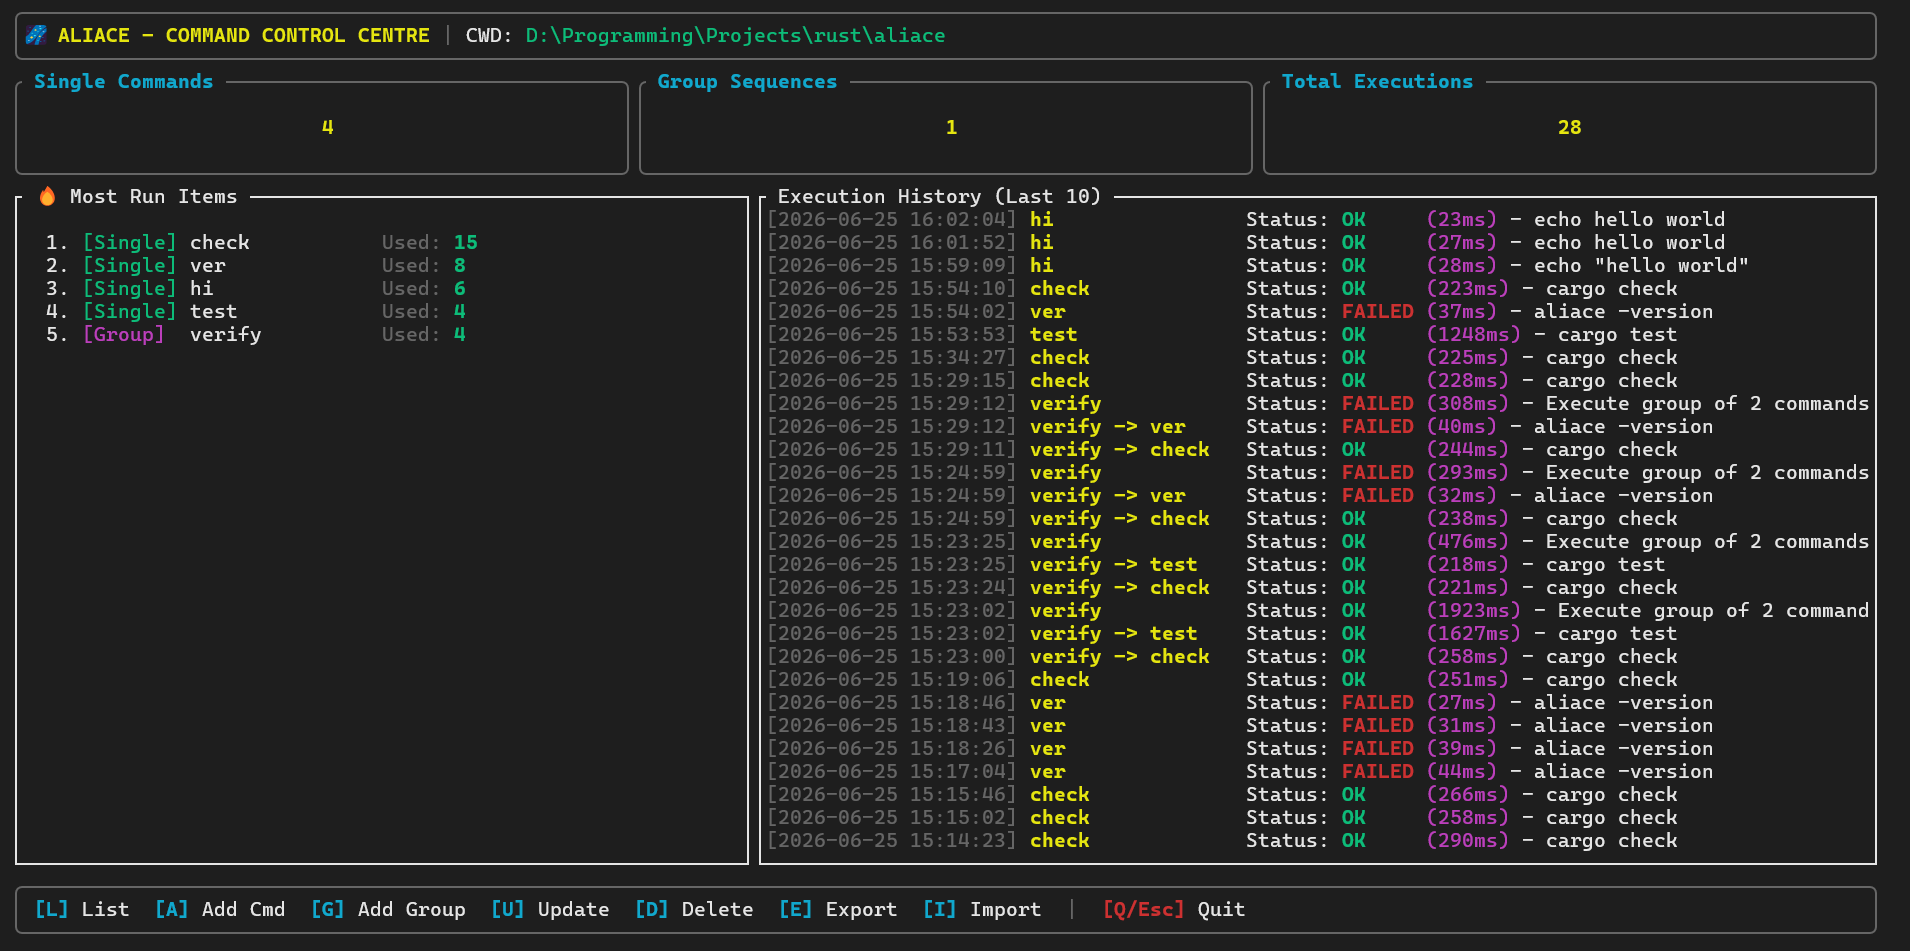
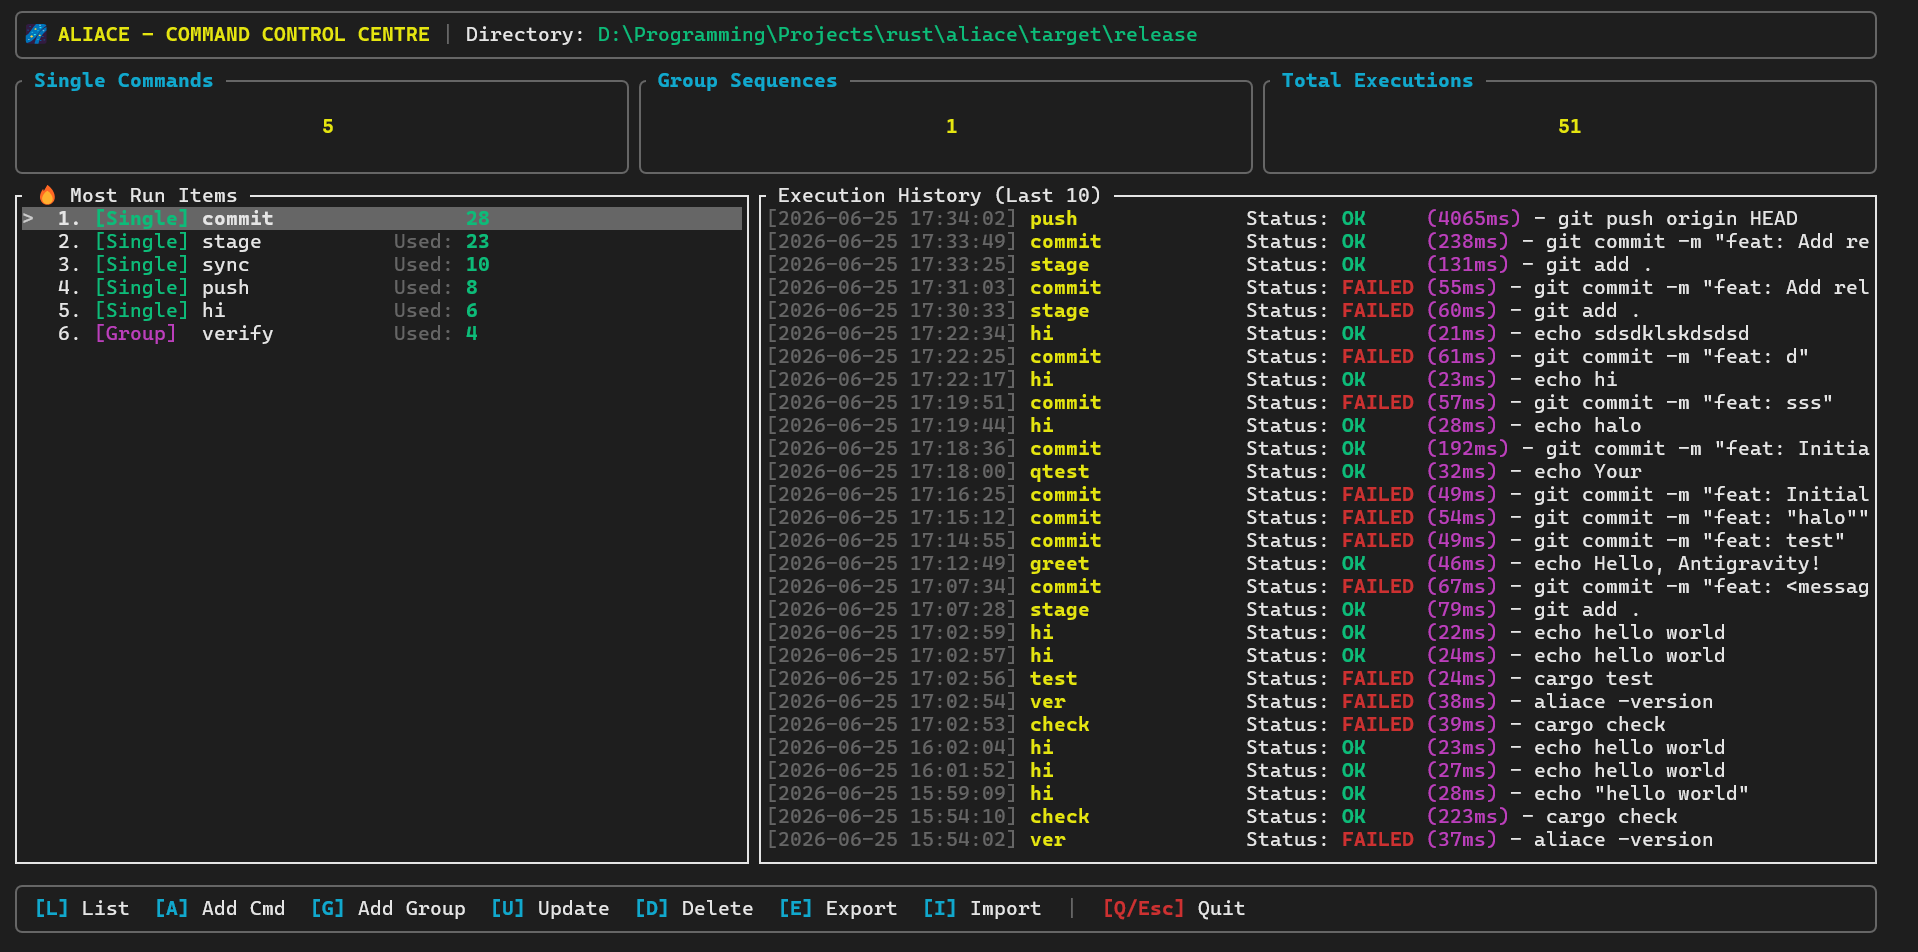
feat: add docs

Changed region(s): [[0.0, 0.0, 0.9885, 1.0], [0.8031, 0.061, 0.9576, 0.0915], [0.8031, 0.122, 0.834, 0.1525]]

diff --git a/src/tui/events/navigation.rs b/src/tui/events/navigation.rs
@@ -1,8 +1,16 @@
 use crate::app::{App, AppScreen};
 use crate::db::Database;
+use crate::tui::{run_tui_command_execution, run_tui_group_execution};
 use crossterm::event::{KeyCode, KeyEvent};
 
-pub fn handle_dashboard_key(app: &mut App, key: KeyEvent) -> Result<(), Box<dyn std::error::Error>> {
+pub fn handle_dashboard_key(app: &mut App, key: KeyEvent, terminal: &mut ratatui::DefaultTerminal) -> Result<(), Box<dyn std::error::Error>> {
+    let sorted_len = app.db.commands.len() + app.db.groups.len();
+    if sorted_len == 0 {
+        app.dashboard_selected = 0;
+    } else if app.dashboard_selected >= sorted_len {
+        app.dashboard_selected = sorted_len - 1;
+    }
+
     match key.code {
         KeyCode::Char('q') | KeyCode::Char('Q') | KeyCode::Esc => {
             app.should_quit = true;
@@ -39,6 +47,44 @@ pub fn handle_dashboard_key(app: &mut App, key: KeyEvent) -> Result<(), Box<dyn 
             app.screen = AppScreen::ImportForm;
             app.import_path = String::new();
             app.import_message = None;
+        }
+        KeyCode::Up => {
+            if app.dashboard_selected > 0 {
+                app.dashboard_selected -= 1;
+            }
+        }
+        KeyCode::Down => {
+            if sorted_len > 0 && app.dashboard_selected < sorted_len - 1 {
+                app.dashboard_selected += 1;
+            }
+        }
+        KeyCode::Enter | KeyCode::Char('r') | KeyCode::Char('R') => {
+            let mut sorted_items = vec![];
+            for cmd in &app.db.commands {
+                sorted_items.push(crate::app::UsedItem {
+                    name: cmd.title.clone(),
+                    is_group: false,
+                    use_count: cmd.use_count,
+                });
+            }
+            for grp in &app.db.groups {
+                sorted_items.push(crate::app::UsedItem {
+                    name: grp.name.clone(),
+                    is_group: true,
+                    use_count: grp.use_count,
+                });
+            }
+            sorted_items.sort_by(|a, b| b.use_count.cmp(&a.use_count));
+            
+            if !sorted_items.is_empty() && app.dashboard_selected < sorted_items.len() {
+                let selected_item = &sorted_items[app.dashboard_selected];
+                let title_or_name = selected_item.name.clone();
+                if selected_item.is_group {
+                    run_tui_group_execution(terminal, app, title_or_name)?;
+                } else {
+                    run_tui_command_execution(terminal, app, title_or_name)?;
+                }
+            }
         }
         _ => {}
     }

diff --git a/src/tui/screens/dashboard.rs b/src/tui/screens/dashboard.rs
@@ -106,30 +106,38 @@ pub fn draw_dashboard(frame: &mut Frame, area: Rect, app: &App) {
     let limit = bottom_chunks[0].height.saturating_sub(4) as usize;
     let top_items = sorted_items.iter().take(limit);
 
-    let mut stats_text = vec![
-        Line::from(""),
-    ];
-
+    let mut list_items = vec![];
     if sorted_items.is_empty() {
-        stats_text.push(Line::from("  No runs logged yet."));
+        list_items.push(ListItem::new("  No runs logged yet."));
     } else {
         for (i, item) in top_items.enumerate() {
             let type_tag = if item.is_group { "[Group]  " } else { "[Single] " };
             let type_color = if item.is_group { Color::Magenta } else { Color::Green };
             
-            stats_text.push(Line::from(vec![
-                Span::styled(format!("  {}. ", i + 1), Style::default().fg(Color::White)),
+            list_items.push(ListItem::new(Line::from(vec![
+                Span::styled(format!(" {}. ", i + 1), Style::default().fg(Color::White)),
                 Span::styled(type_tag, Style::default().fg(type_color)),
                 Span::styled(format!("{:<15}", item.name), Style::default().fg(Color::White)),
                 Span::styled(" Used: ", Style::default().fg(Color::DarkGray)),
                 Span::styled(format!("{:<4}", item.use_count), Style::default().fg(Color::Green).add_modifier(Modifier::BOLD)),
-            ]));
+            ])));
         }
     }
 
-    let stats_widget = Paragraph::new(stats_text)
-        .block(Block::default().title(" 🔥 Most Run Items ").borders(Borders::ALL).border_style(Style::default().fg(Color::Gray)));
-    frame.render_widget(stats_widget, bottom_chunks[0]);
+    let stats_widget = List::new(list_items)
+        .block(Block::default()
+            .title(" 🔥 Most Run Items ")
+            .borders(Borders::ALL)
+            .border_style(Style::default().fg(Color::Gray))
+        )
+        .highlight_style(Style::default().bg(Color::DarkGray).add_modifier(Modifier::BOLD))
+        .highlight_symbol("> ");
+
+    let mut list_state = ratatui::widgets::ListState::default();
+    if !sorted_items.is_empty() {
+        list_state.select(Some(app.dashboard_selected));
+    }
+    frame.render_stateful_widget(stats_widget, bottom_chunks[0], &mut list_state);
 
     let history_block = Block::default()
         .title(" Execution History (Last 10) ")

diff --git a/src/app.rs b/src/app.rs
@@ -83,6 +83,7 @@ pub struct App {
     pub import_message: Option<String>,
     
     pub tick_count: u64,
+    pub dashboard_selected: usize,
 }
 
 impl App {
@@ -116,6 +117,7 @@ impl App {
             import_path: String::new(),
             import_message: None,
             tick_count: 0,
+            dashboard_selected: 0,
         }
     }
 

diff --git a/src/main.rs b/src/main.rs
@@ -24,7 +24,7 @@ fn main() -> Result<(), Box<dyn std::error::Error>> {
     let command = args[1].as_str();
     match command {
         "-v" | "--version" | "version" => {
-            println!("v0.1.0");
+            println!("v0.1.1");
         }
         "list" => {
             run_tui_list()?;

diff --git a/src/tui/events/mod.rs b/src/tui/events/mod.rs
@@ -35,7 +35,7 @@ pub fn handle_key_event(app: &mut App, key: KeyEvent, terminal: &mut DefaultTerm
     }
 
     match app.screen {
-        AppScreen::Dashboard => navigation::handle_dashboard_key(app, key)?,
+        AppScreen::Dashboard => navigation::handle_dashboard_key(app, key, terminal)?,
         AppScreen::ListCommands => lists::handle_list_key(app, key, terminal)?,
         AppScreen::UpdateCommandList => lists::handle_update_list_key(app, key)?,
         AppScreen::DeleteCommandList => lists::handle_delete_list_key(app, key)?,

diff --git a/docs/USAGE.md b/docs/USAGE.md
@@ -19,6 +19,8 @@ The TUI provides operators with a visual console to manage registered commands, 
 | `D` | Remove Entry | Open the selector to delete command or group entries |
 | `E` | Export Database | Open the configuration panel to export backups |
 | `I` | Import Database | Open the configuration panel to restore backups |
+| `Up` / `Down` | Select Most Run | Navigate selection within the "Most Run Items" dashboard panel |
+| `Enter` / `R` | Run Highlighted | Execute the highlighted "Most Run" command or pipeline sequence |
 | `Esc` / `Q` | Exit Context | Return to the Dashboard or exit the application console |
 
 ---

diff --git a/README.md b/README.md
@@ -6,6 +6,7 @@ Aliace is a high-performance, keyboard-driven command registry and execution orc
 Aliace enables software engineers and system administrators to catalog complex shell commands, orchestrate sequential execution groups, capture execution telemetry, and define dynamic parameter bindings—all backed by a lightweight, portable JSON registry.
 
 ![Aliace Dashboard](docs/ss.png)
+![Aliace Dashboard](docs/ss2.png)
 ---
 
 ## 🔑 Key Features & Business Value